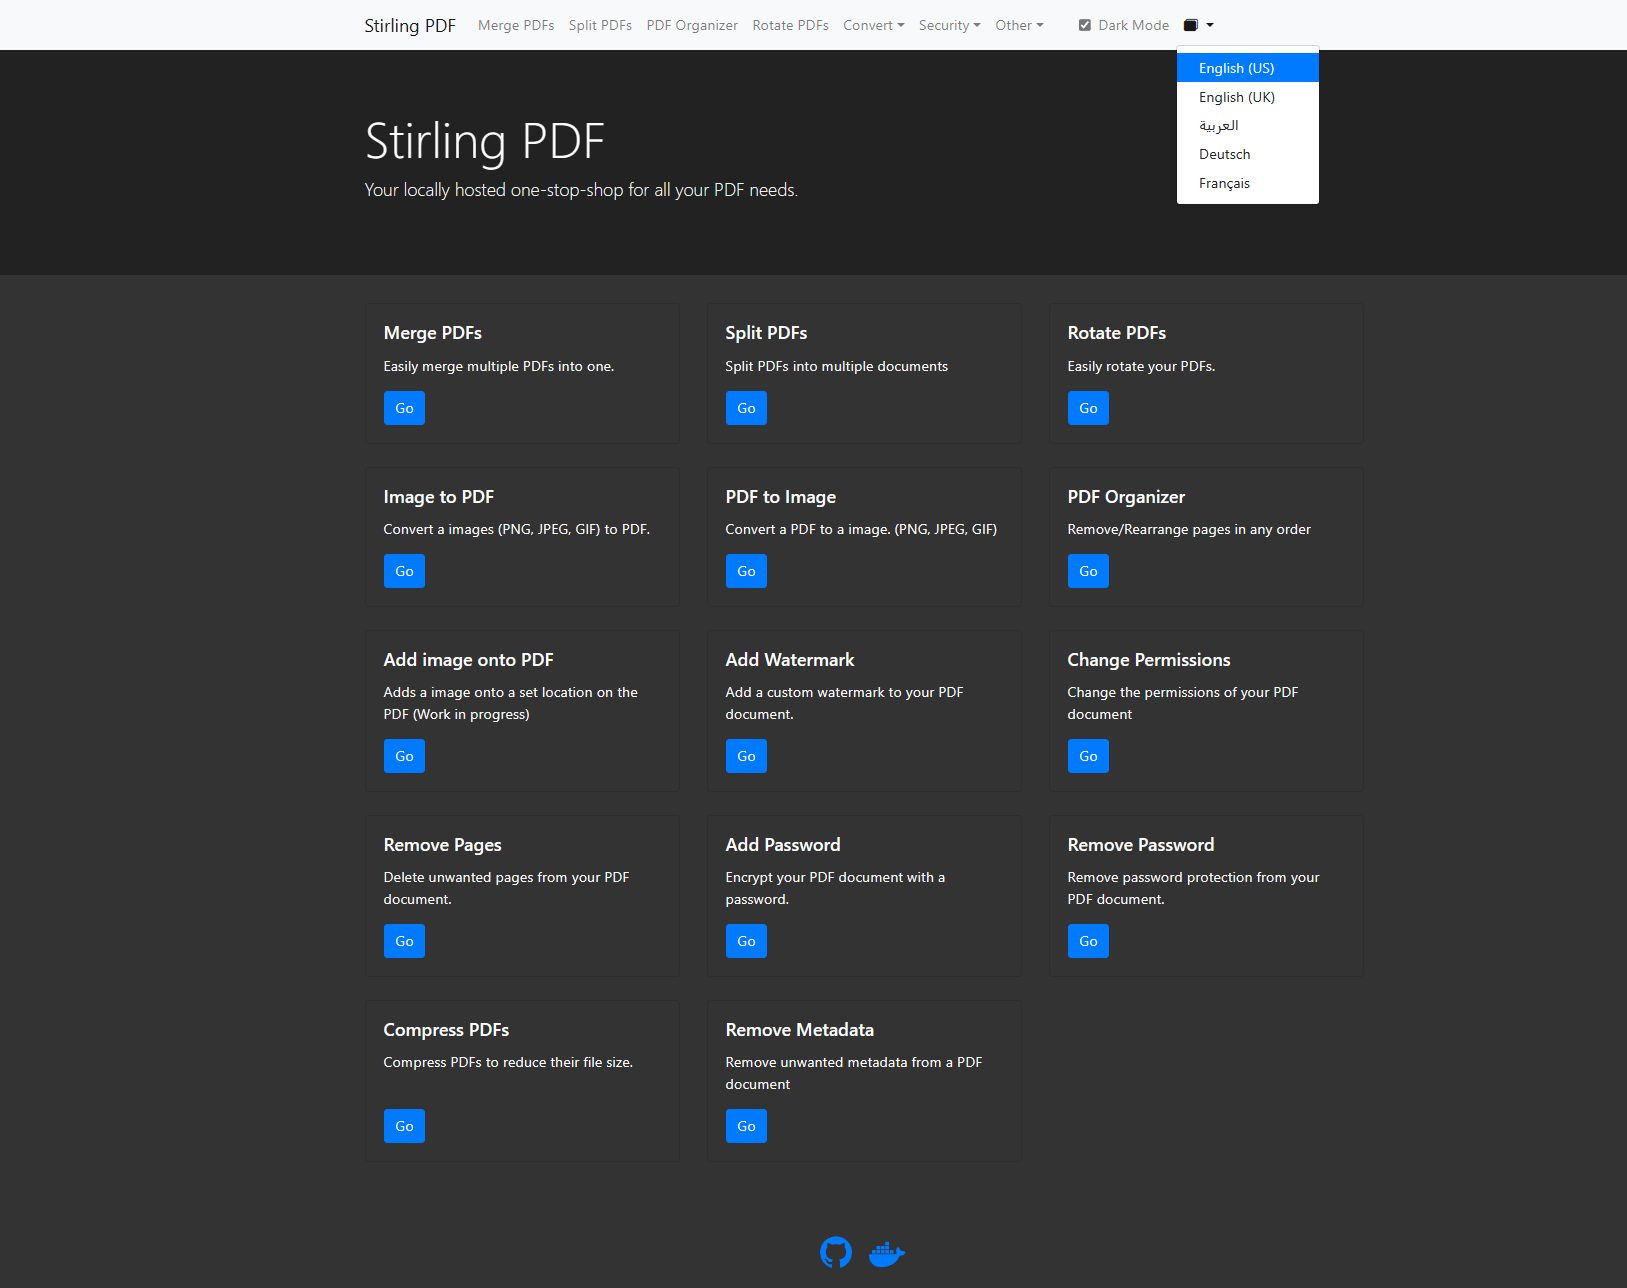
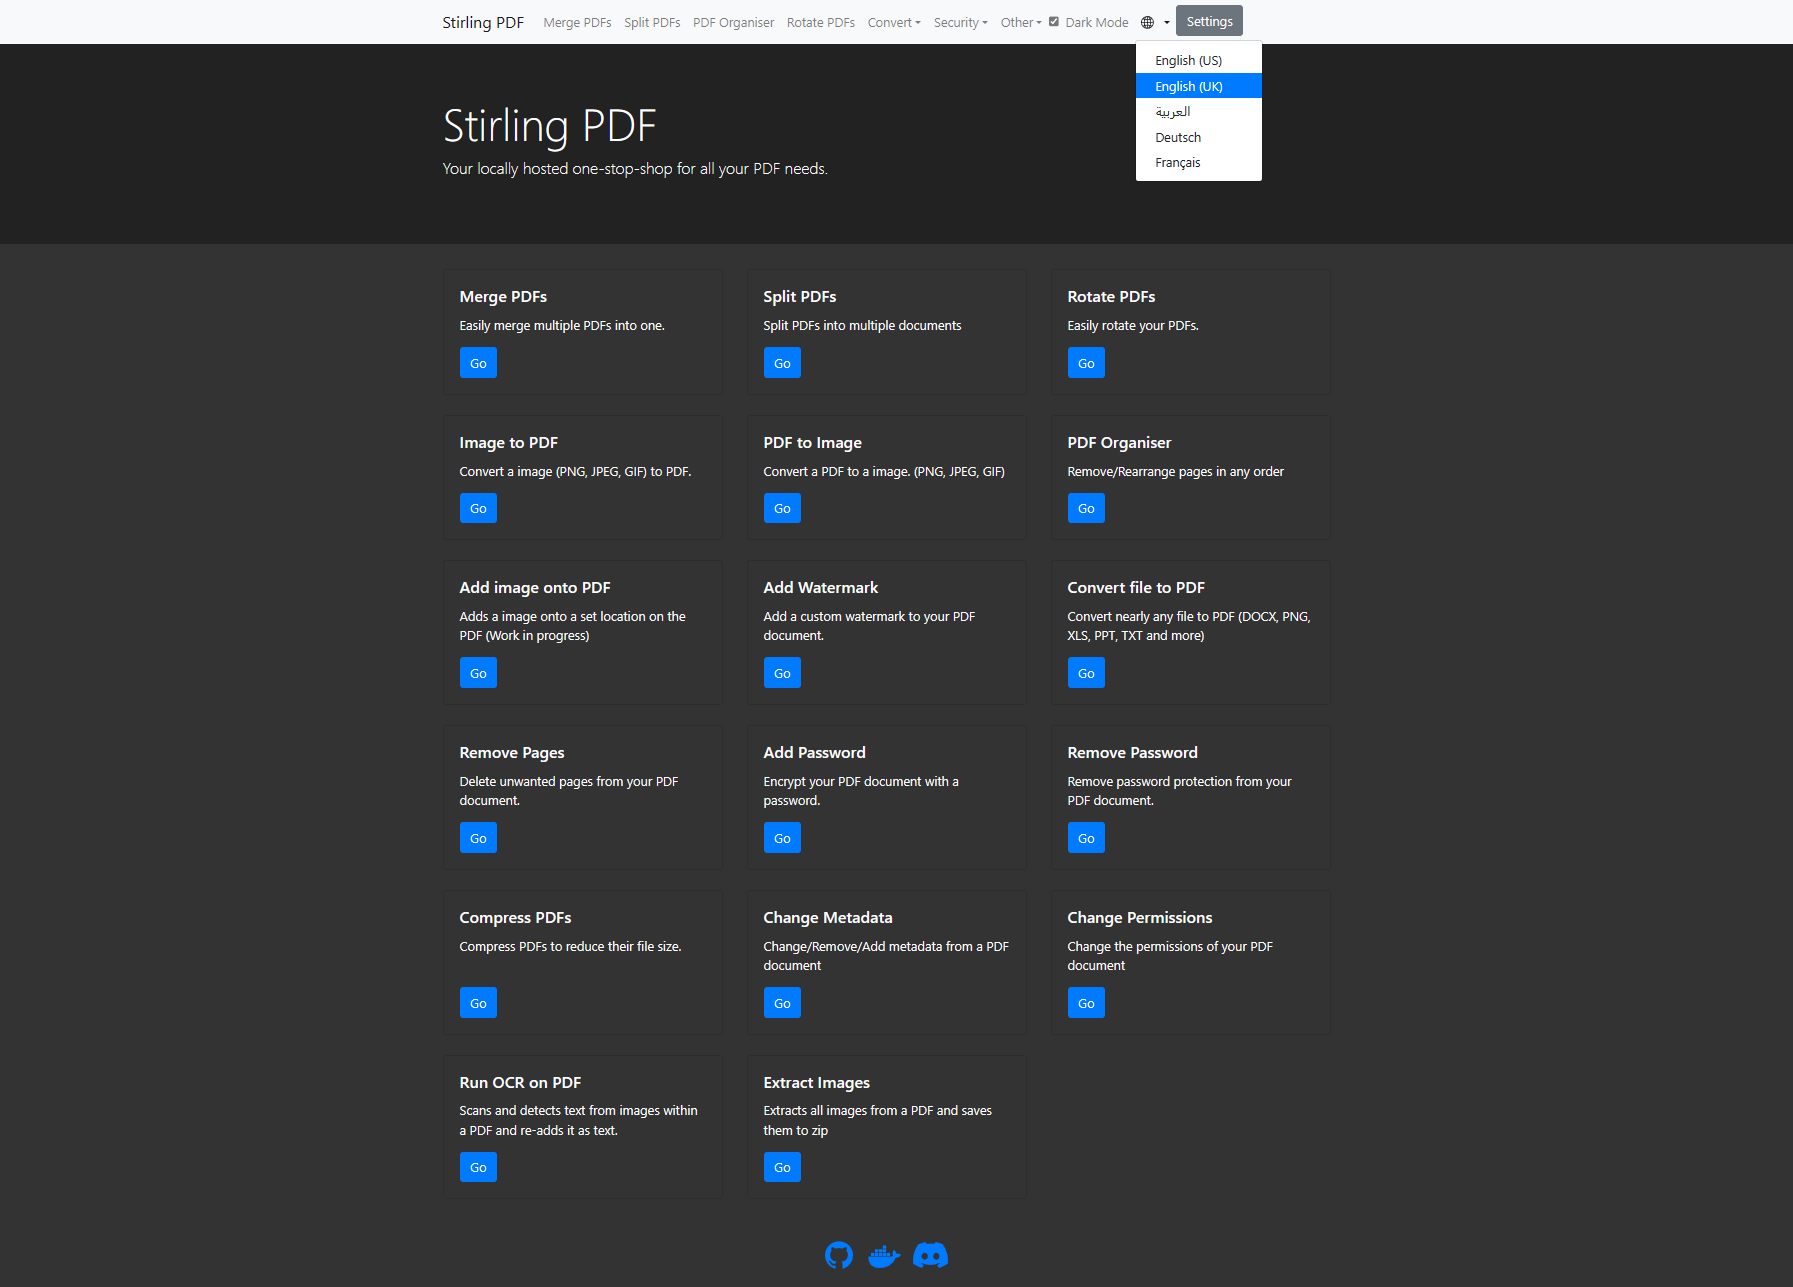
readme (#82)

diff --git a/README.md b/README.md
@@ -16,7 +16,6 @@ I will support and fix/add things to this if there is a demand [Discord](https:/
 
 ![stirling-home](images/stirling-home.png)
 
-
 ## Features
 
 - Split PDFs into multiple files at specified page numbers or extract all pages as individual files.
@@ -34,14 +33,14 @@ I will support and fix/add things to this if there is a demand [Discord](https:/
 - OCR on PDF (Using OCRMyPDF)
 - Edit metadata
 - Dark mode support.
-- Custom download options
+- Custom download options (see [here](https://github.com/Frooodle/Stirling-PDF/blob/main/images/settings.png) for example)
 - Parallel file processing and downloads
 
 ## Technologies used
 - Spring Boot + Thymeleaf
 - PDFBox
-- LibreOffice for advanced conversions
-- OcrMyPdf https://github.com/ocrmypdf/OCRmyPDF
+- [LibreOffice](https://www.libreoffice.org/discover/libreoffice/) for advanced conversions
+- [OcrMyPdf](https://github.com/ocrmypdf/OCRmyPDF)
 - HTML, CSS, JavaScript
 - Docker
 
@@ -75,9 +74,19 @@ services:
         image: frooodle/s-pdf
 ```
 
+## Enable OCR/Compression feature
+Please view https://github.com/Frooodle/Stirling-PDF/blob/main/HowToUseOCR.md
+
+## Want to add your own language?
+If you want to add your own language to Stirling-PDF please refer
+https://github.com/Frooodle/Stirling-PDF/blob/main/HowToAddNewLanguage.md
+
+And please create a PR to merge it back in so others can use it! 
+
+Also please note as i add new features i will google translate existing languages so that they dont lose support. This could mean that new features need grammer corrections as added.
+
 ## How to View
 1. Open a web browser and navigate to `http://localhost:8080/`
 2. Use the application by following the instructions on the website.
 
-## Note
-The application is currently not thread-safe
+
